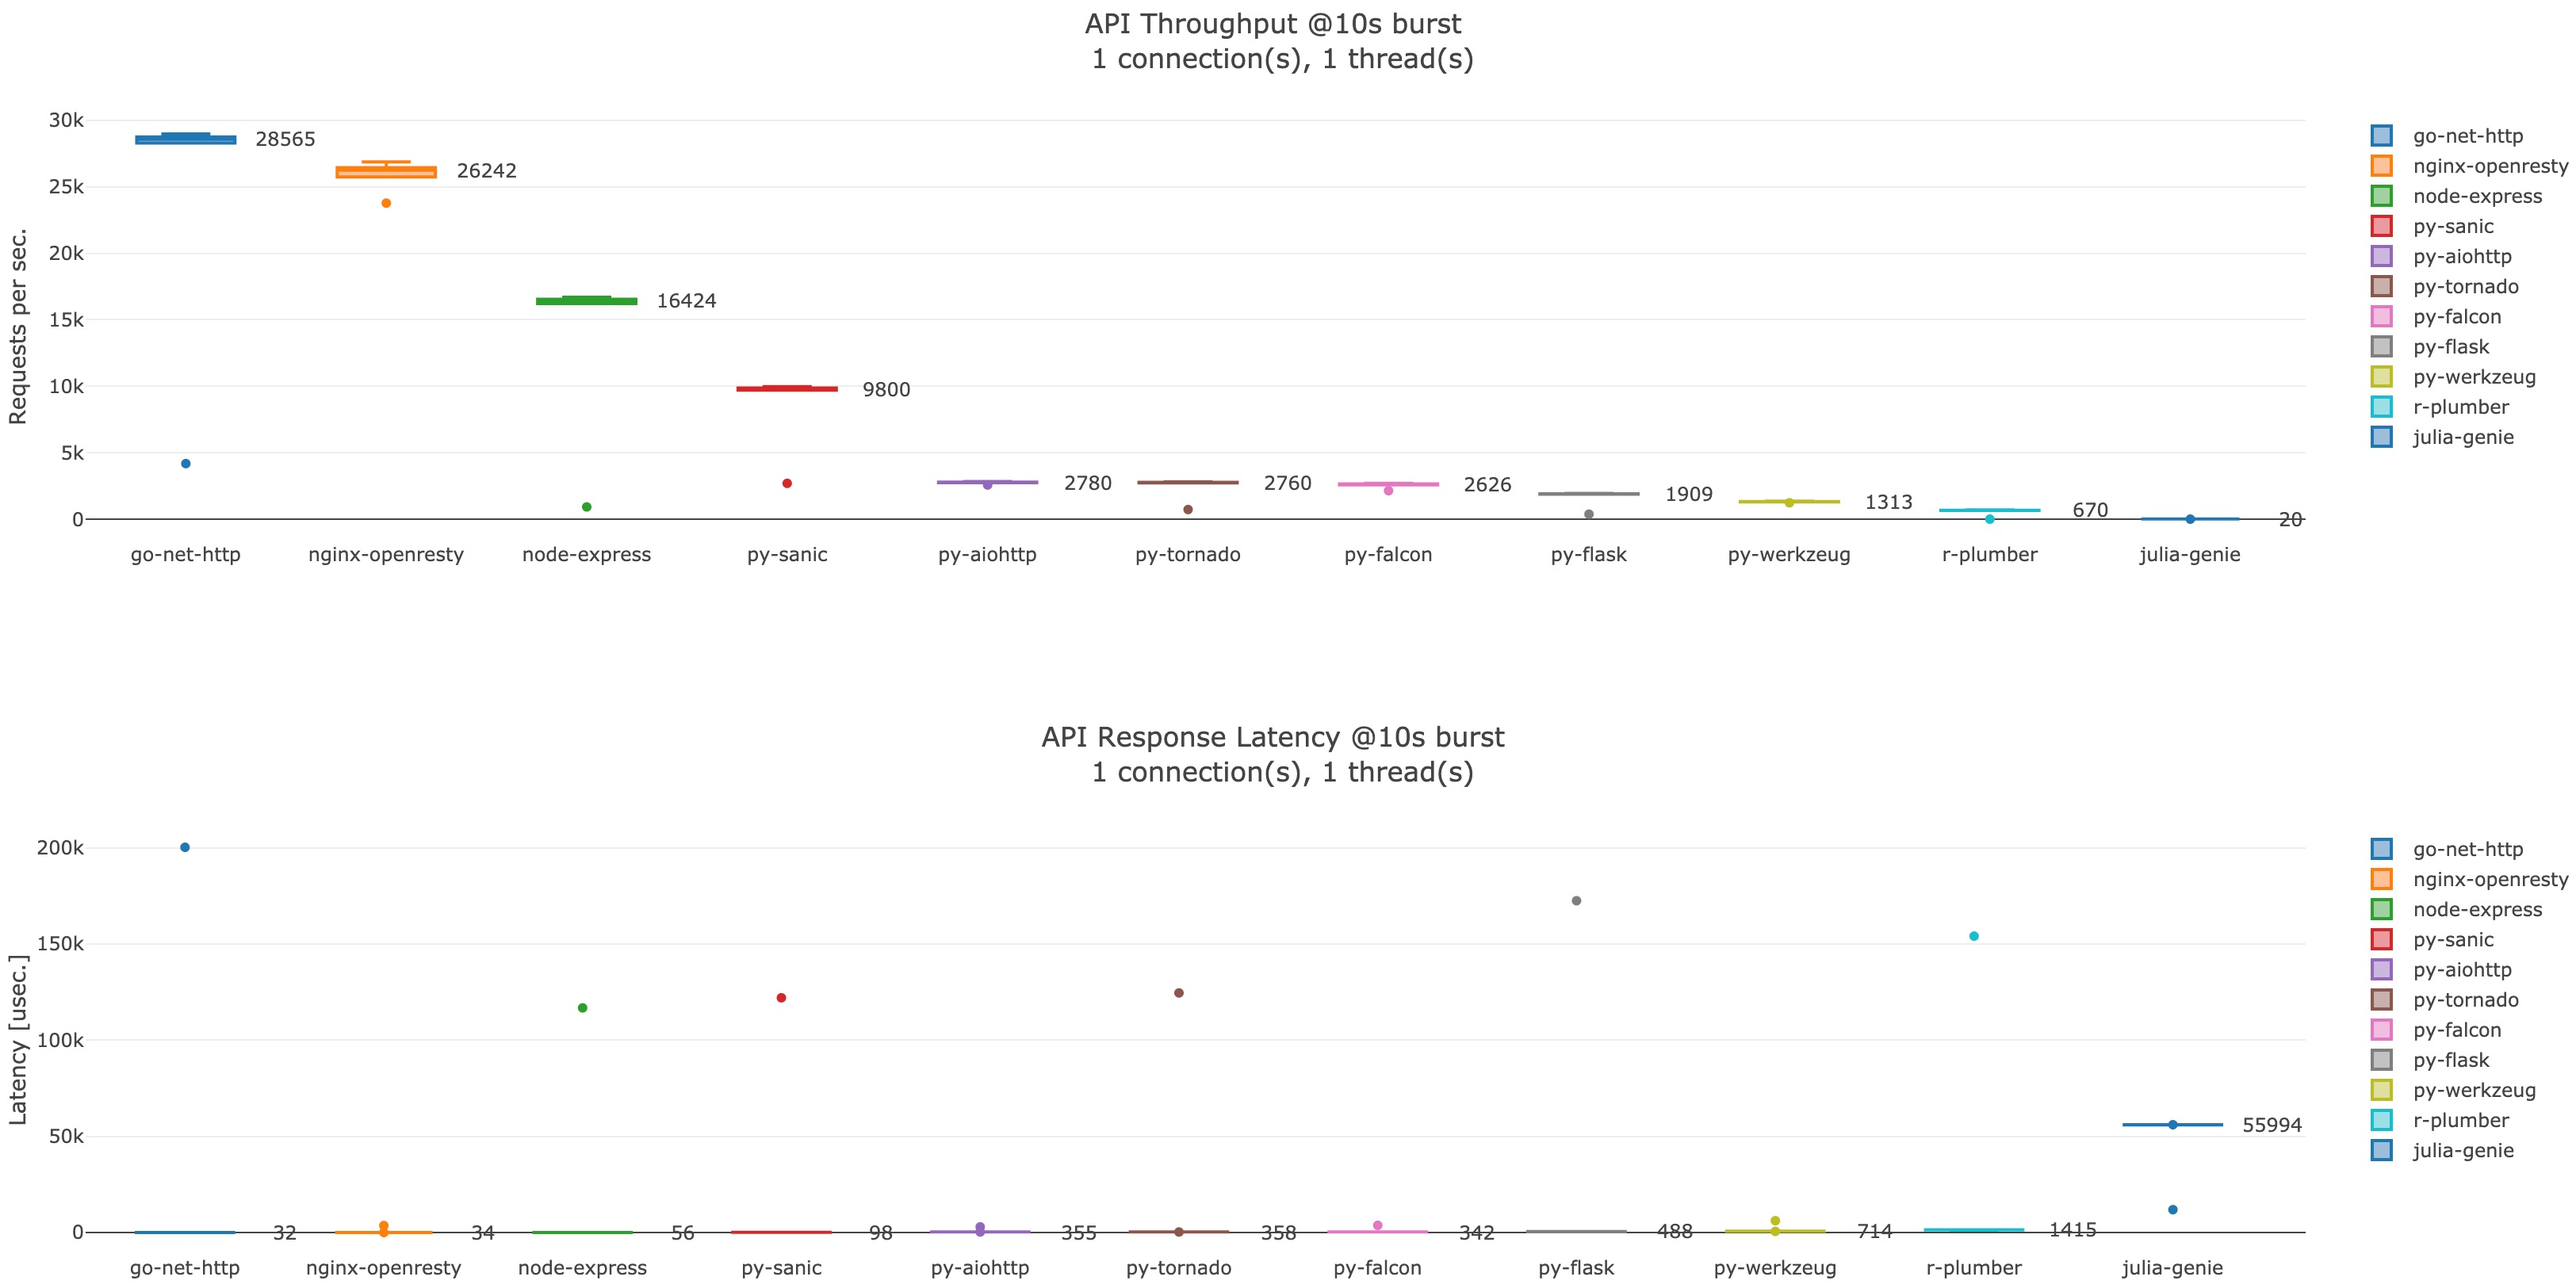
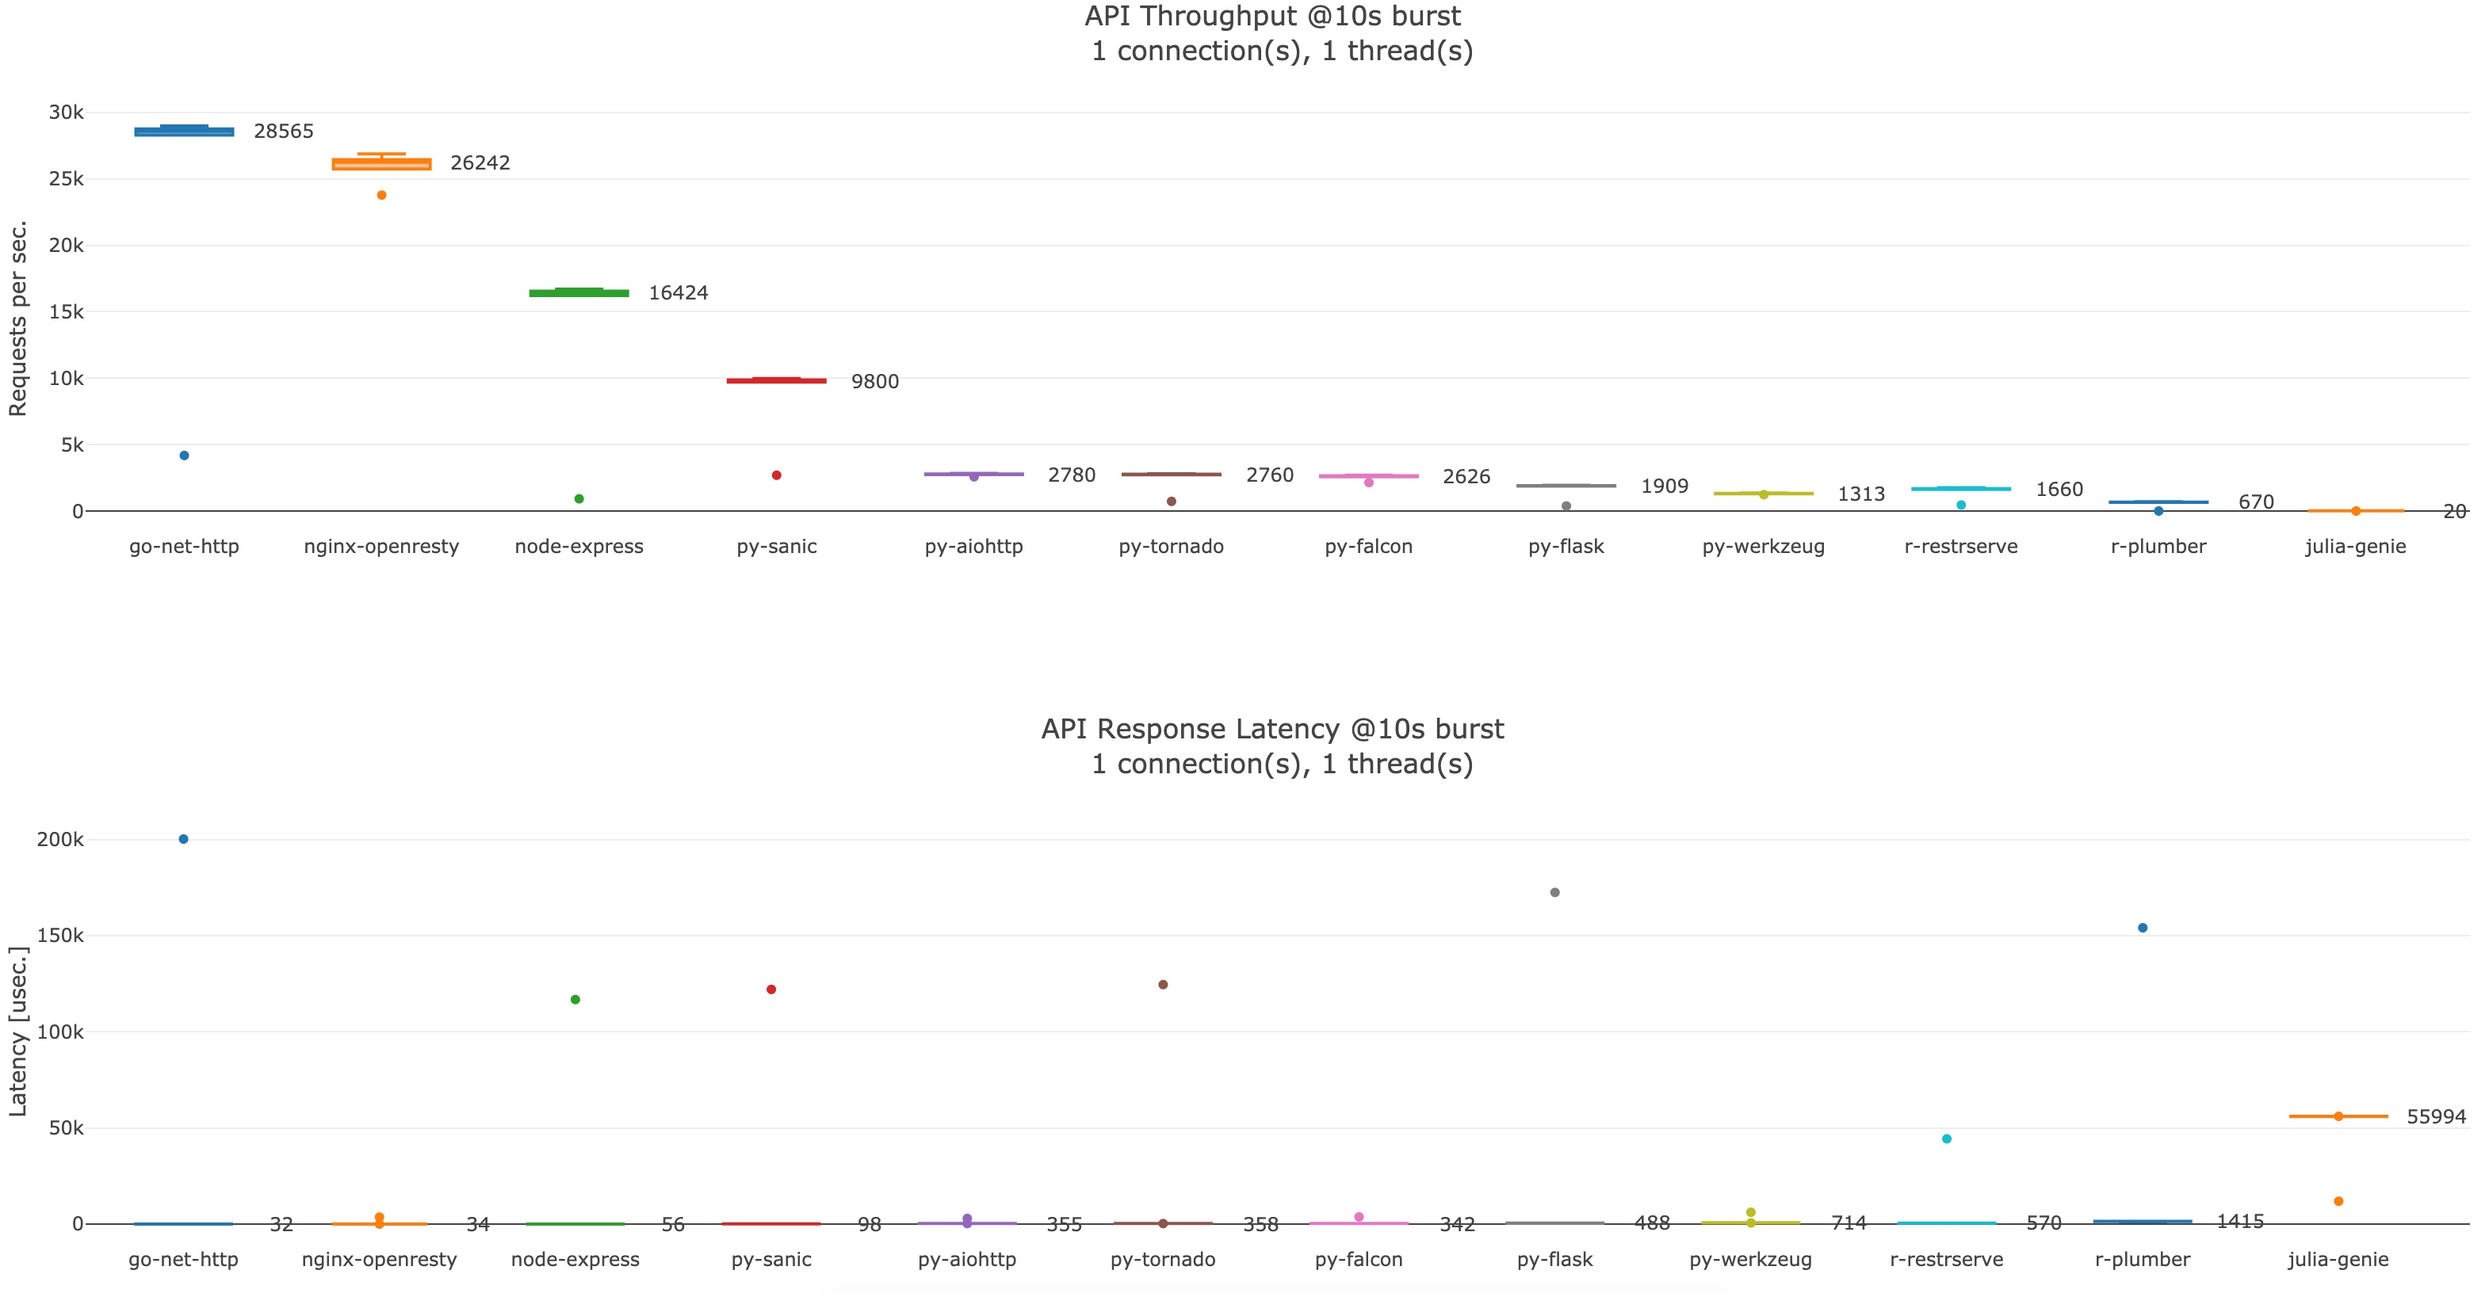
up + r-restrserve

diff --git a/benchmark/dataviz/hello-world/gcp/g1-small/d10_t1_c1/graph.js b/benchmark/dataviz/hello-world/gcp/g1-small/d10_t1_c1/graph.js
@@ -1,8 +1,8 @@
 var connections = 1;
 var threads = 1;
 var duration = 10;
-var data = [{"name": "go-net-http", "latency_us": [28, 31, 32, 32, 34, 200228], "requests": [4187, 28290, 28565, 28565, 28747, 28969]}, {"name": "nginx-openresty", "latency_us": [30, 34, 34, 34, 36, 3657], "requests": [23770, 25730, 26242, 26242, 26440, 26868]}, {"name": "node-express", "latency_us": [51, 55, 56, 56, 60, 116772], "requests": [929, 16210, 16424, 16424, 16540, 16696]}, {"name": "py-sanic", "latency_us": [93, 97, 98, 98, 105, 122022], "requests": [2702, 9707, 9800, 9800, 9870, 9979]}, {"name": "py-aiohttp", "latency_us": [285, 349, 355, 355, 361, 2970], "requests": [2580, 2750, 2780, 2780, 2800, 2838]}, {"name": "py-tornado", "latency_us": [290, 351, 358, 358, 365, 124542], "requests": [735, 2740, 2760, 2760, 2780, 2818]}, {"name": "py-falcon", "latency_us": [321, 336, 342, 342, 351, 3765], "requests": [2150, 2580, 2626, 2626, 2656, 2707]}, {"name": "py-flask", "latency_us": [465, 481, 488, 488, 497, 172454], "requests": [385, 1880, 1909, 1909, 1919, 1949]}, {"name": "py-werkzeug", "latency_us": [611, 700, 714, 714, 732, 6162], "requests": [1240, 1300, 1313, 1313, 1333, 1363]}, {"name": "r-plumber", "latency_us": [1310, 1389, 1415, 1415, 1447, 154075], "requests": [10, 660, 670, 670, 680, 707]}, {"name": "julia-genie", "latency_us": [11892, 55980, 55994, 55994, 56003, 56045], "requests": [10, 19, 20, 20, 20, 20]}]
-
+var data = [{"name": "go-net-http", "latency_us": [28, 31, 32, 32, 34, 200228], "requests": [4187, 28290, 28565, 28565, 28747, 28969]}, {"name": "nginx-openresty", "latency_us": [30, 34, 34, 34, 36, 3657], "requests": [23770, 25730, 26242, 26242, 26440, 26868]}, {"name": "node-express", "latency_us": [51, 55, 56, 56, 60, 116772], "requests": [929, 16210, 16424, 16424, 16540, 16696]}, {"name": "py-sanic", "latency_us": [93, 97, 98, 98, 105, 122022], "requests": [2702, 9707, 9800, 9800, 9870, 9979]}, {"name": "py-aiohttp", "latency_us": [285, 349, 355, 355, 361, 2970], "requests": [2580, 2750, 2780, 2780, 2800, 2838]}, {"name": "py-tornado", "latency_us": [290, 351, 358, 358, 365, 124542], "requests": [735, 2740, 2760, 2760, 2780, 2818]}, {"name": "py-falcon", "latency_us": [321, 336, 342, 342, 351, 3765], "requests": [2150, 2580, 2626, 2626, 2656, 2707]}, {"name": "py-flask", "latency_us": [465, 481, 488, 488, 497, 172454], "requests": [385, 1880, 1909, 1909, 1919, 1949]}, {"name": "py-werkzeug", "latency_us": [611, 700, 714, 714, 732, 6162], "requests": [1240, 1300, 1313, 1313, 1333, 1363]}, {"name": "r-restrserve", "latency_us": [521, 559, 570, 570, 588, 44351], "requests": [464, 1636, 1660, 1660, 1696, 1767]}, {"name": "r-plumber", "latency_us": [1310, 1389, 1415, 1415, 1447, 154075], "requests": [10, 660, 670, 670, 680, 707]}, {"name": "julia-genie", "latency_us": [11892, 55980, 55994, 55994, 56003, 56045], "requests": [10, 19, 20, 20, 20, 20]}]
+    
 var traces = {
   throughput: [],
   latency: [],
@@ -47,6 +47,7 @@ var layout_throughput = {
     title: 'Requests per sec.',
     zeroline: true,
   },
+  showlegend: false,
   annotations: annotations['throughput']
 };
 
@@ -57,6 +58,7 @@ var layout_latency = {
     title: 'Latency [usec.]',
     zeroline: true,
   },
+  showlegend: false,
   annotations: annotations['latency']
 };
 

diff --git a/benchmark/dataviz/template.js b/benchmark/dataviz/template.js
@@ -42,6 +42,7 @@ var layout_throughput = {
     title: 'Requests per sec.',
     zeroline: true,
   },
+  showlegend: false,
   annotations: annotations['throughput']
 };
 
@@ -52,6 +53,7 @@ var layout_latency = {
     title: 'Latency [usec.]',
     zeroline: true,
   },
+  showlegend: false,
   annotations: annotations['latency']
 };
 

diff --git a/benchmark/summary_parser.py b/benchmark/summary_parser.py
@@ -17,7 +17,6 @@ SPLIT_TESTS = "--new-test--"
 
 def parser(document: str) -> Tuple[dict, str]:
     """ Function to parse summary file """
-
     def _scanner(pattern: str, search_str: str, **args) -> str:
         found_element = re.findall(pattern, search_str, **args)
         if found_element:
@@ -26,7 +25,6 @@ def parser(document: str) -> Tuple[dict, str]:
 
     def _tab_parser(table_lst: list, delimeter: str = ',', header: bool = True) -> dict:
         """ Function to parse tables from the summary """
-
         reader = csv.reader(table_lst, delimiter=delimeter)
 
         try:
@@ -73,7 +71,6 @@ def parser(document: str) -> Tuple[dict, str]:
                 _scanner("requests in (\d+.\d+).?,", document_list[0], flags=re.I))
         except Exception as ex:
             return None, f"Parsing of the 1st summary part error:\n{ex}"
-
         # parse pt.2 of the summary
         template['latency'] = _tab_parser(document_list[1].split('\n')[1:])
         # parse pt.3 of the summary
@@ -87,7 +84,6 @@ def parser(document: str) -> Tuple[dict, str]:
 
 def reader(path: str) -> Tuple[List[str], str]:
     """ Function to read the file """
-
     if not os.path.isfile(path):
         return None, "No file %s found", path
 
@@ -100,7 +96,6 @@ def reader(path: str) -> Tuple[List[str], str]:
 
 
 def writer(path: str, obj: dict) -> str:
-
     try:
         with open(path, 'w') as f:
             json.dump(obj, f)
@@ -119,7 +114,6 @@ if __name__ == "__main__":
         sys.exit(0)
 
     for iFile in files:
-
         fin, err = reader(os.path.join(PATH_RAW, iFile))
         if err:
             print(err)

diff --git a/benchmark/dataviz/dataviz.py b/benchmark/dataviz/dataviz.py
@@ -48,9 +48,6 @@ var threads = {BECNHMARK_PAR['threads']};
 var duration = {BECNHMARK_PAR['duration']};
 var data = {json.dumps(data)}
     """
-    
-    print(js_template)
-    sys.exit(0)
   
     js_file = open(TEMPLATE_JS, 'r').read()
     js_file = f"{js_template}\n{js_file}"
